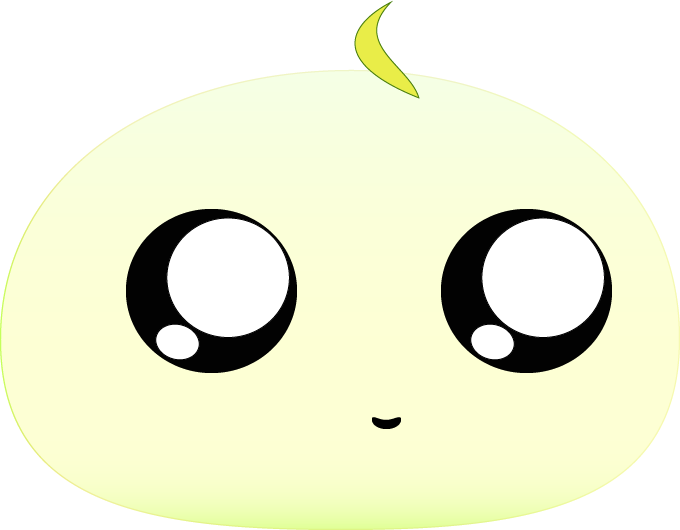
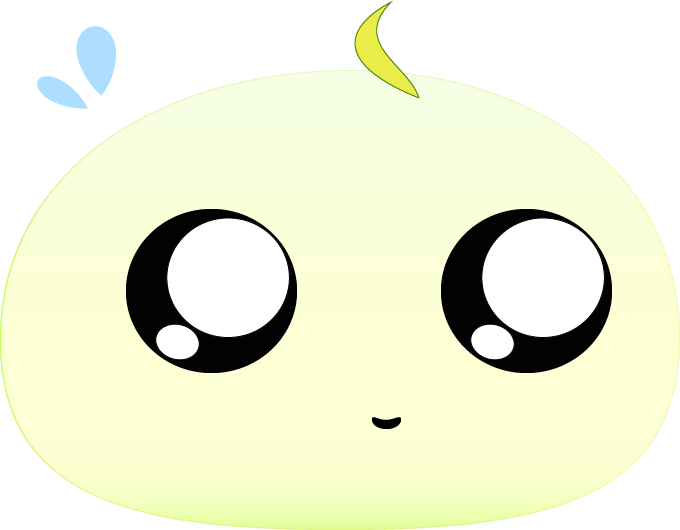
캐릭터 조금 수정 및 버거게임 씬 꾸미기

Changed region(s): [[0.0309, 0.0302, 0.1853, 0.2113]]

diff --git a/Pro_daelim_wego/Assets/Scripts/JumpGame/PlayerControl.cs b/Pro_daelim_wego/Assets/Scripts/JumpGame/PlayerControl.cs
@@ -238,7 +238,7 @@ public class PlayerControl : MonoBehaviour
         isBurning = true;
         rd2.isKinematic = true;
         burningBG.SetActive(true);
-        burningBG.transform.position = new Vector3(0, 0, 0);
+        burningBG.transform.position = new Vector3(0, 0, 1);
         burningBG.gameObject.GetComponent<Scroll>().burningSpeed *= 5.0f;
 
         if(burningBG.gameObject.GetComponent<Scroll>().burningSpeed >= 20.0f)
